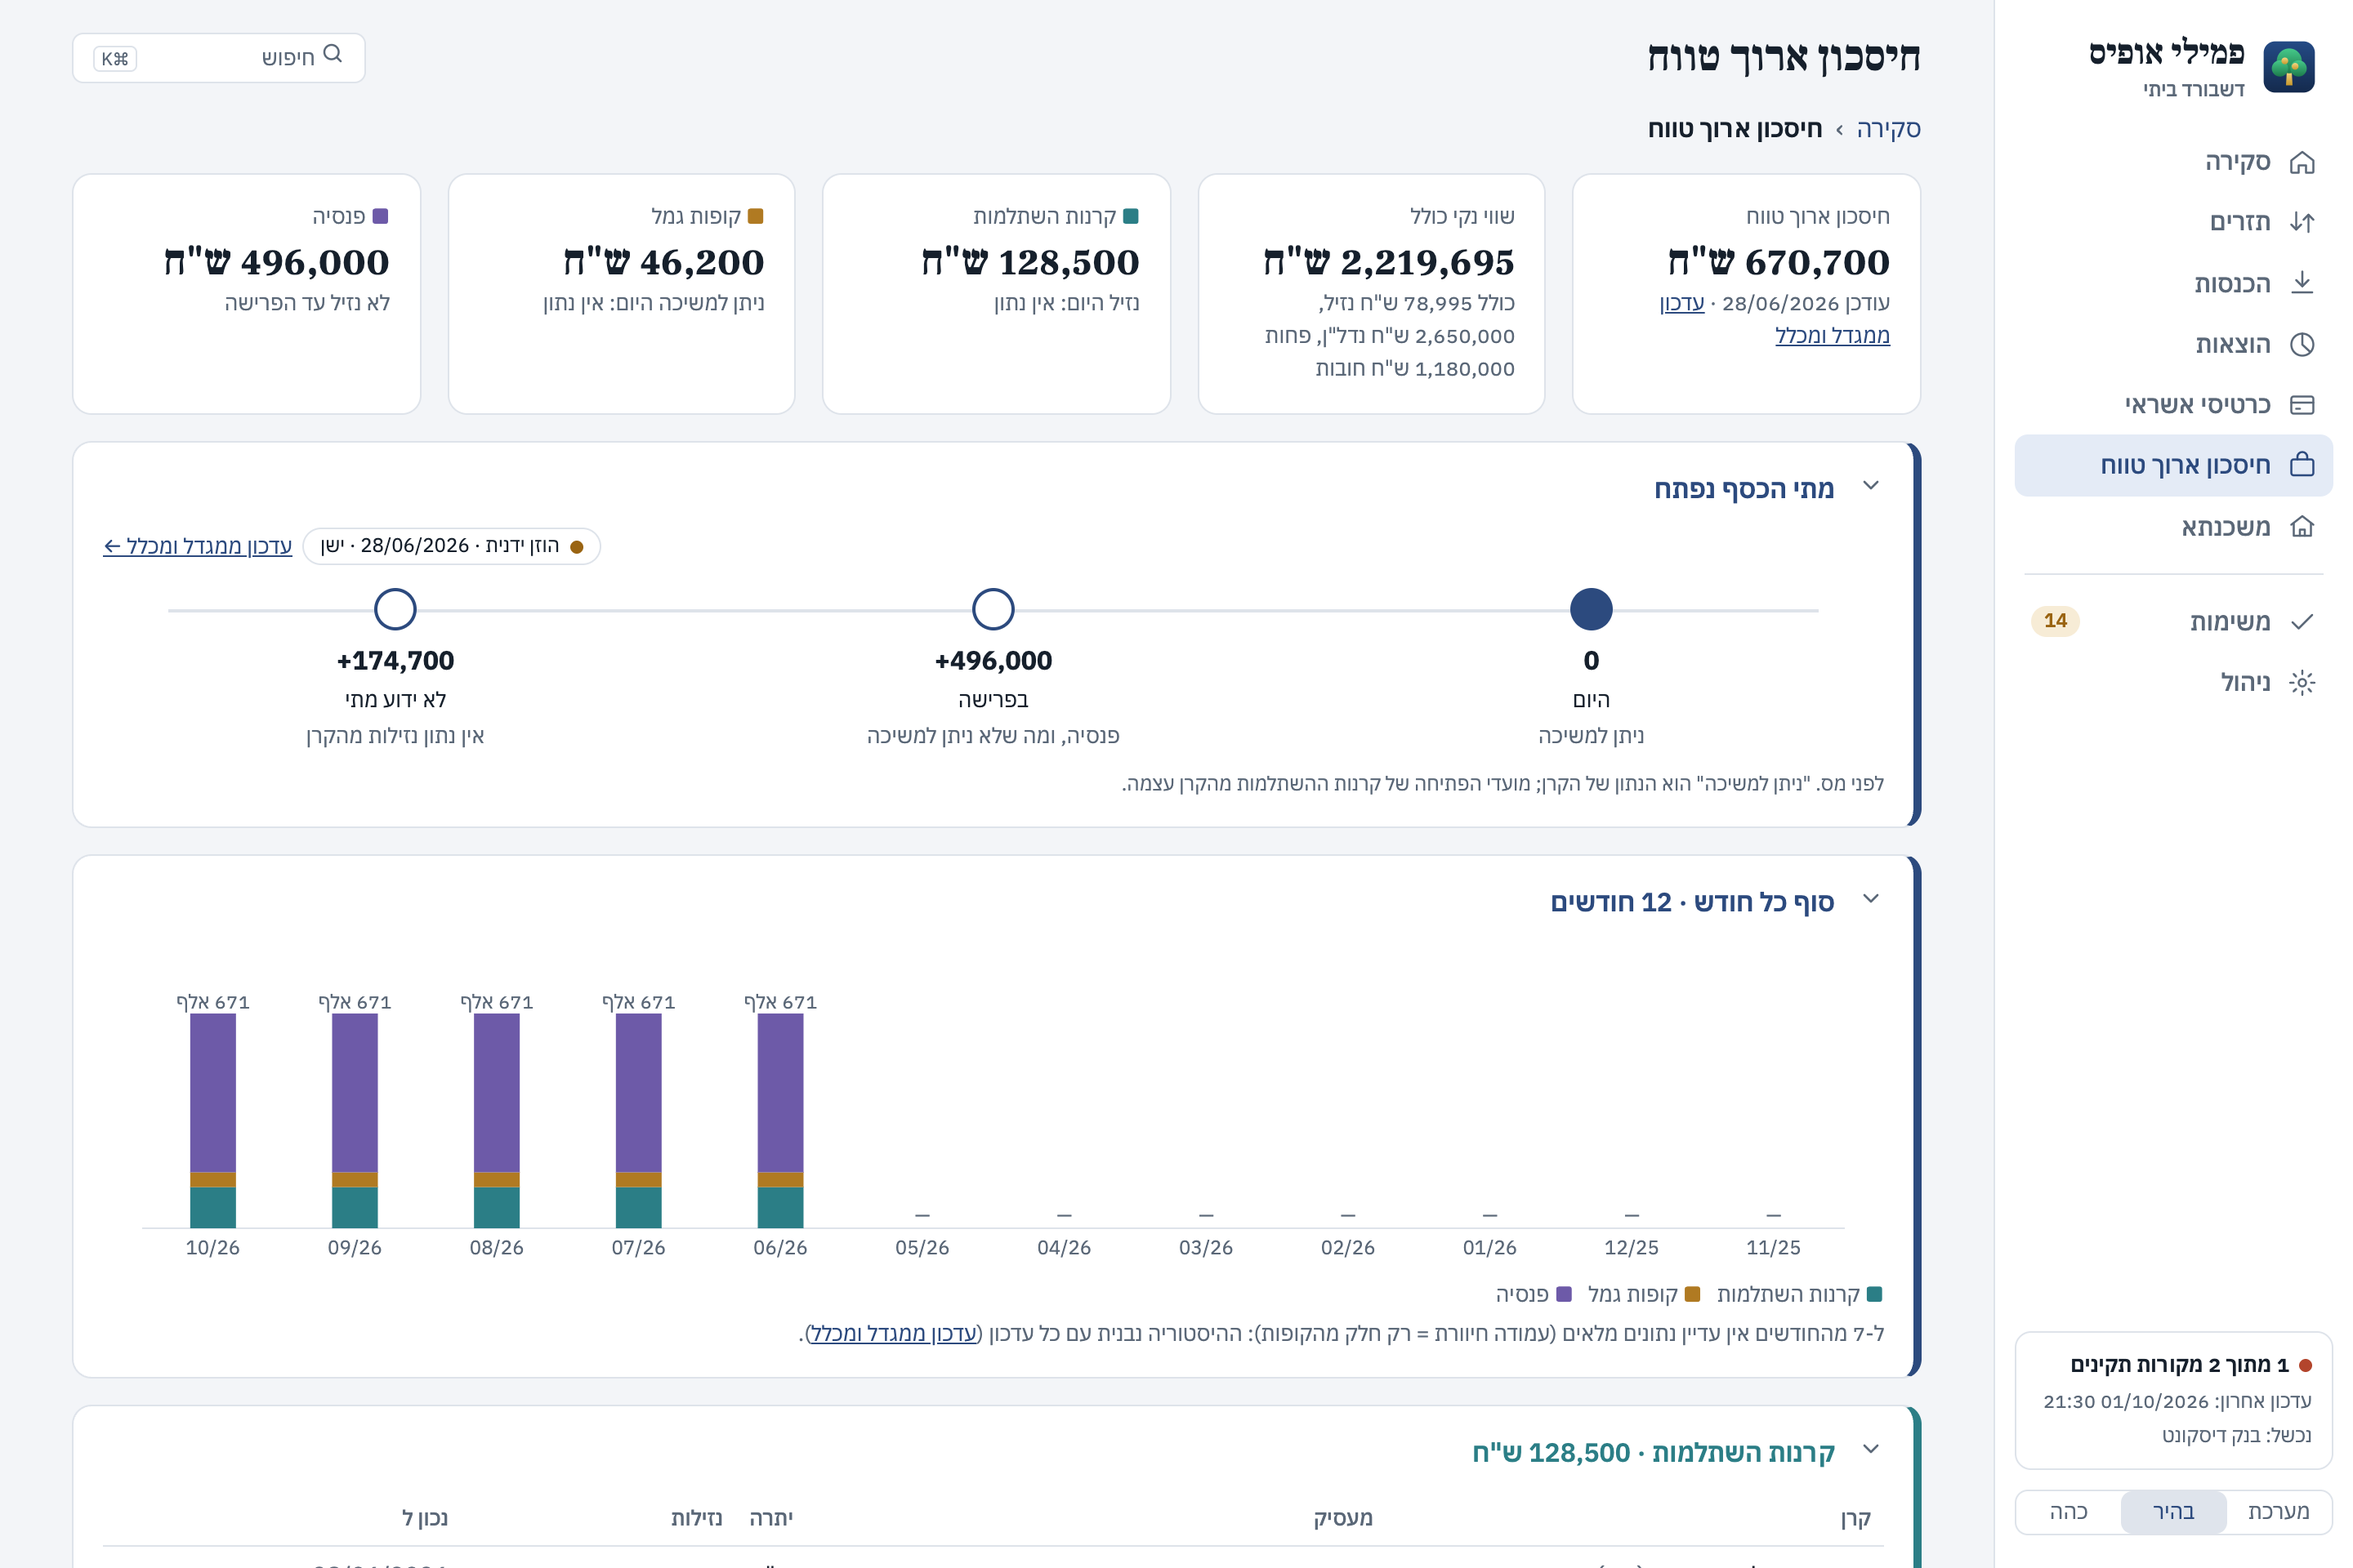
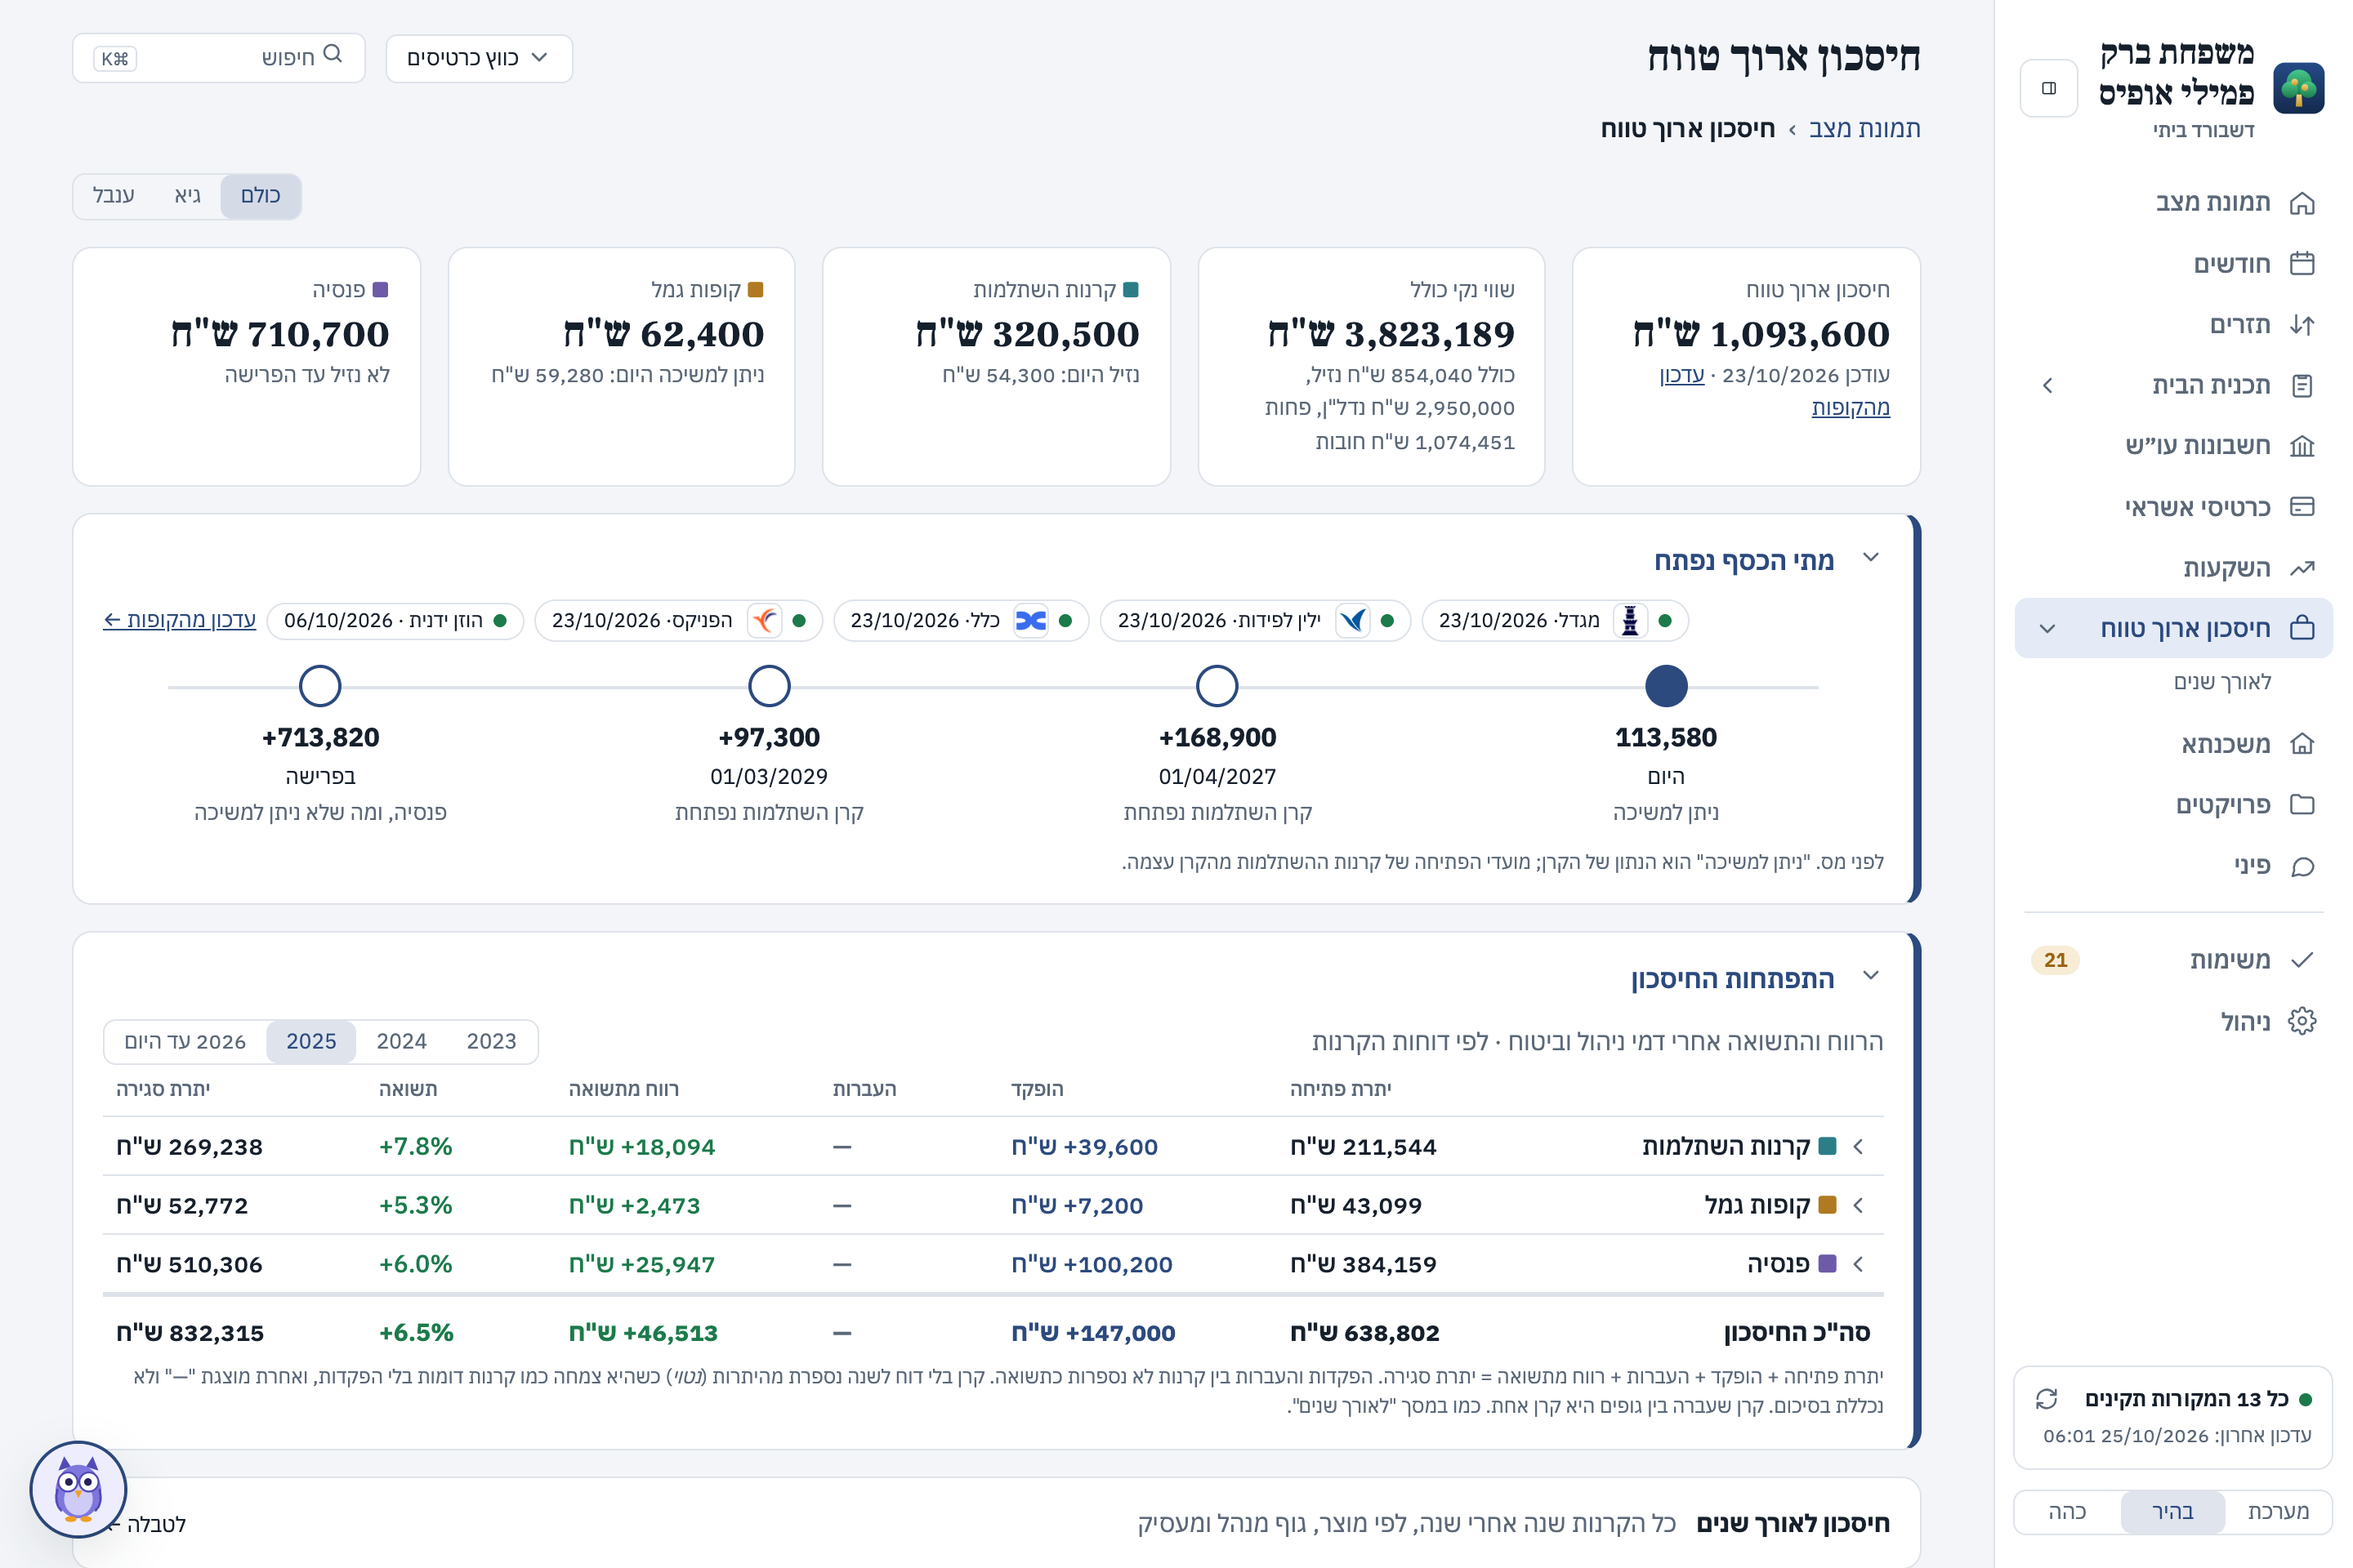
README: screenshots of the current screens, from the demo household

diff --git a/README.md b/README.md
@@ -6,29 +6,29 @@
 
 ## צילומי מסך
 
-הצילומים מנתוני דמו של כמה משקי בית בדויים (משפחה, רווק, חופשת לידה), לא מנתונים אמיתיים.
+הצילומים ממצב ההדגמה של האפליקציה, על משק בית בדוי, לא מנתונים אמיתיים.
 
-**סקירה:** כמה נכנס, כמה יצא וכמה נשאר החודש, שווי נקי, ומה נשאר בפועל בכל אחד מ-12 החודשים האחרונים.
+**תמונת מצב:** סיכום החודש, שווי נקי, הצפי לסוף החודש, חשבונות העו"ש וחיובי הכרטיסים שבדרך.
 
-![סקירה](screenshots/1-overview.png)
+![תמונת מצב](screenshots/1-overview.png)
 
-**תזרים:** מה כבר ירד מהבנק ומה עוד צפוי לרדת עד סוף החודש, ותחזית ל-12 החודשים הבאים.
+**תזרים:** כמה נכנס, כמה יצא וכמה נשאר בכל אחד מ-12 החודשים האחרונים, והצפי ל-12 החודשים הבאים.
 
 ![תזרים](screenshots/2-cashflow.png)
 
-**הוצאות:** קבועות ומשתנות, לפי קטגוריה, ובהשוואה לחודשים קודמים.
+**חודשים › הוצאות:** הצפי לחודש, איפה חרגנו, קצב החיובים וההוצאות לפי קטגוריה, מול חודש רגיל.
 
 ![הוצאות](screenshots/3-expenses.png)
 
-**הכנסות:** מאיפה הכסף מגיע, חודש אחרי חודש, כולל הכנסות חד-פעמיות.
+**חודשים › הכנסות:** מאיפה הכסף מגיע, חודש אחרי חודש, כולל בונוסים והכנסות חד-פעמיות.
 
 ![הכנסות](screenshots/4-income.png)
 
-**כרטיסי אשראי:** החיוב הקרוב בכל כרטיס, לאורך זמן ומול חודש רגיל.
+**כרטיסי אשראי:** החיוב הקרוב בכל כרטיס, ולאורך זמן מול הממוצע.
 
 ![כרטיסי אשראי](screenshots/5-cards.png)
 
-**חיסכון ארוך טווח:** פנסיה, קרנות השתלמות וקופות גמל, ומתי הכסף נפתח למשיכה.
+**חיסכון ארוך טווח:** פנסיה, קרנות השתלמות וקופות גמל, מתי הכסף נפתח למשיכה, והתשואה בכל שנה.
 
 ![חיסכון ארוך טווח](screenshots/6-savings.png)
 
